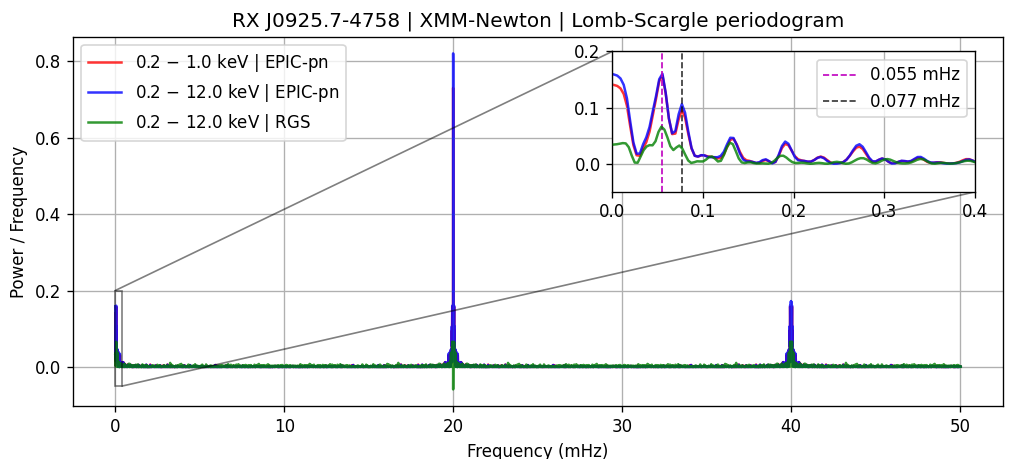
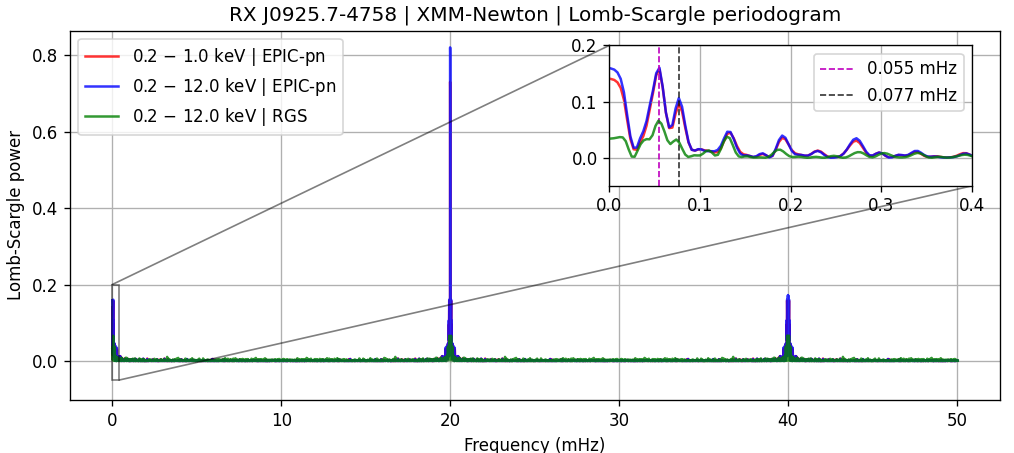
Incorporated some more DPhy reviewer comments

diff --git a/chapters/02/methodology.tex b/chapters/02/methodology.tex
@@ -192,6 +192,9 @@ To assess the agreement between the predicted count spectrum and the observed da
     		While traditional periodograms are well-suited for uniformly sampled data, their applicability can be limited when dealing with irregularly spaced time series. In such scenario, the Lomb-Scargle periodogram emerges as a viable alternative \cite{lomb1976least,scargle1982studies}. Specifically designed to handle unevenly spaced data, the Lomb-Scargle periodogram accounts for gaps in the time series, providing a robust and reliable method for detecting periodic signals.
     		
     	\subsection{Theory of Lomb-Scargle Periodogram}
+    		The Lomb-Scargle periodogram is a robust and versatile technique for analyzing unevenly sampled time series data, particularly prevalent in astronomical applications. This method provides a computationally efficient approach to estimate a Fourier-like power spectrum, enabling the identification and characterization of periodic signals embedded within noisy or irregularly spaced data \cite{vanderplas2018understanding}.
+    		
+    		By leveraging the Lomb-Scargle algorithm, one can effectively determine the dominant oscillation period of a given time series. The method's ability to handle gaps and variations in sampling intervals makes it indispensable for analyzing astronomical observations, where data collection is often subject to constraints such as weather conditions, instrument limitations, or observational scheduling.
     	
     		\subsubsection{Uniform and non-uniform sampling of data}
     			\paragraph{Uniform sampling of data:}
@@ -294,6 +297,11 @@ To assess the agreement between the predicted count spectrum and the observed da
     				\tau&=\dfrac{1}{4\pi f}\tan^{-1}{\left\lbrace \dfrac{\sum_{n}{\sin{[4\pi ft_n)]}}}{\sum_{n}{\cos{[4\pi ft_n)]}}} \right\rbrace}
     			\end{align*}
     			In the above, the function $\tau$ ensures the time-shift invariance of the Lomb-Scargle periodogram. A notable feature of the Lomb-Scargle periodogram is its equivalence to the result obtained from fitting a simple sinusoidal model to the data at each frequency $f$ and constructing a periodogram from the $\chi^2$ goodness-of-fit statistic at each frequency. This approach allows the periodogram to be viewed as a measure of how well a sine wave of a given frequency fits the observational data. In this context, the introduction of the $\tau$ shift is crucial, as it serves to orthogonalize the normal equations used in the least squares fitting process. This orthogonalization ensures that the fitting procedure is unbiased and more computationally stable. This deep connection between traditional Fourier analysis and least-squares analysis has led to the widespread adoption of the term \textit{Lomb-Scargle periodogram} to describe this methodology, even though variants of this approach were utilized prior to Lomb and Scargle's formalization.
+    			
+    		\subsubsection{Units in the Lomb-Scargle Periodogram}
+    			From a given time-series data array, the computed Lomb-Scargle periodogram, from equation (\ref{eqn:lomb-scargle-02}), can be visualized as a two-dimensional plot. The horizontal axis represents the range of periods that were tested in the analysis. It is essentially a grid of potential periods that the Lomb-Scargle algorithm evaluates to determine the likelihood of a periodic signal at that particular period.
+    			
+    			The vertical axis represents the power associated with each period. It is a measure of how well the periodic signal fits the data at that particular period. Higher power values indicate a stronger likelihood of a periodic signal at that period. The power values in the Lomb-Scargle periodogram are dimensionless. They are calculated based on the correlation between the data and a sinusoidal model at each period, and the units cancel out during the calculations.
     			
     		\subsubsection{Uncertainties in Periodogram Results}
     			A critical aspect of reporting results derived from the Lomb-Scargle periodogram is the quantification of uncertainty associated with the estimated period. While traditional approaches often rely on error bars to express uncertainty, such a metric may be less meaningful in the context of Lomb-Scargle periodograms. The primary concern with periodograms is often the presence of false peaks or aliases, rather than a continuous distribution of potential period values around a true estimate. This disjointed nature of uncertainty necessitates a more nuanced approach to quantifying the reliability of the estimated period.

diff --git a/appendices/appendix_publication.tex b/appendices/appendix_publication.tex
@@ -5,9 +5,9 @@
     		\begin{enumerate}
     			\item Rabindra Mahato, \textbf{Parag Bhattacharya}, Monmoyuri Baruah, \textit{``A Study of ISM in the Line of Sight of NS Transient LMXB MXB 1659-298''}, Galaxies, ISSN: 2075-4434, vol. 12 no. 4 (July 2024), Indexing: Scopus, ESCI (Web of Science).
     			
-    			\item \textbf{Parag Bhattacharya}, Bansy M. Lyngdoh, Jessica I. Nongrum, Ranjeev Misra and Monmoyuri Baruah, \textit{``A Python-based tool for spectral line identification in RGS spectra from XMM-Newton''}, ADBU Journal of Engineering \& Technology, ISSN: 2348-7305, vol. 9 no. 2 (December 2020), Indexing: UGC-CARE list.
+    			\item \textbf{Parag Bhattacharya}, Bansy M. Lyngdoh, Jessica I. Nongrum, Ranjeev Misra and Monmoyuri Baruah, \textit{``A Python-based tool for spectral line identification in RGS spectra from XMM-Newton''}, ADBU Journal of Engineering \& Technology, ISSN: 2348-7305, vol. 9 no. 2 (December 2020), Indexing: UGC-CARE list (at the time of publication).
 
-    			\item \textbf{Parag Bhattacharya}, Monmoyuri Baruah, \textit{``Supersoft X-ray Sources: A Review Study''}, Journal of Fundamental \& Applied Sciences, ISSN 2395-5554 (Print), 2395-5562 (Online), vol. 3 no. 2 (June 2017), Indexing: UGC list.
+    			\item \textbf{Parag Bhattacharya}, Monmoyuri Baruah, \textit{``Supersoft X-ray Sources: A Review Study''}, Journal of Fundamental \& Applied Sciences, ISSN 2395-5554 (Print), 2395-5562 (Online), vol. 3 no. 2 (June 2017), Indexing: UGC list (at the time of publication).
     		\end{enumerate}
     	
 %    	\subsection{Accepted for Publication}

diff --git a/chapters/06/results.tex b/chapters/06/results.tex
@@ -491,7 +491,7 @@
 			\begin{tabular}{C{2.2cm}C{1.8cm}|C{2cm}C{2cm}C{2cm}C{2cm}|C{1.8cm}C{1.4cm}C{1.8cm}C{1.4cm}}
 				\hline
 				\multirow{2}{*}{\shortstack{\textbf{Observatory}\\ \textbf{and}\\ \textbf{Instrument}}} & \multirow{2}{*}{\shortstack{\textbf{Photon}\\ \textbf{energy}\\ \textbf{range}}} & \multicolumn{4}{c|}{\textbf{Lomb-Scargle periodogram}} & \multicolumn{4}{c}{\textbf{Best-fit sinusoid}} \\ \cline{3-10}
-				{} & {} & {\textbf{Freq. (mHz)}} & {\shortstack{\textbf{Period}\\ \textbf{(ks)}}} & {\textbf{Power per freq.}} & {\textbf{FAP}} & {\shortstack{$\boldsymbol{A}$\\ \textbf{(counts/s)}}} & {\shortstack{ $\boldsymbol{\phi}$\\ \textbf{(rad)}}} & {\shortstack{$\boldsymbol{C_0}$\\ \textbf{(counts/s)}}} & {\textbf{AMR}} \\
+				{} & {} & {\textbf{Freq. (mHz)}} & {\shortstack{\textbf{Period}\\ \textbf{(ks)}}} & {\textbf{L-S power}} & {\textbf{FAP}} & {\shortstack{$\boldsymbol{A}$\\ \textbf{(counts/s)}}} & {\shortstack{ $\boldsymbol{\phi}$\\ \textbf{(rad)}}} & {\shortstack{$\boldsymbol{C_0}$\\ \textbf{(counts/s)}}} & {\textbf{AMR}} \\
 				\hline
 				\multirow{4}{*}{\shortstack{NICER\\ \\ XTI}} & \multirow{2}{*}{\shortstack{0.2 -- 1.0\\ keV}} & {0.009} & {112.3} & {0.480} & {$3.9\times 10^{-25}$} & {1.56} & {0.50} & {10.32} & {15.1\%} \\
 				{} & {} & {0.017} & {58.8} & {0.490} & {$6.1\times 10^{-26}$} & {1.25} & {1.57} & {10.39} & {12.0\%} \\
